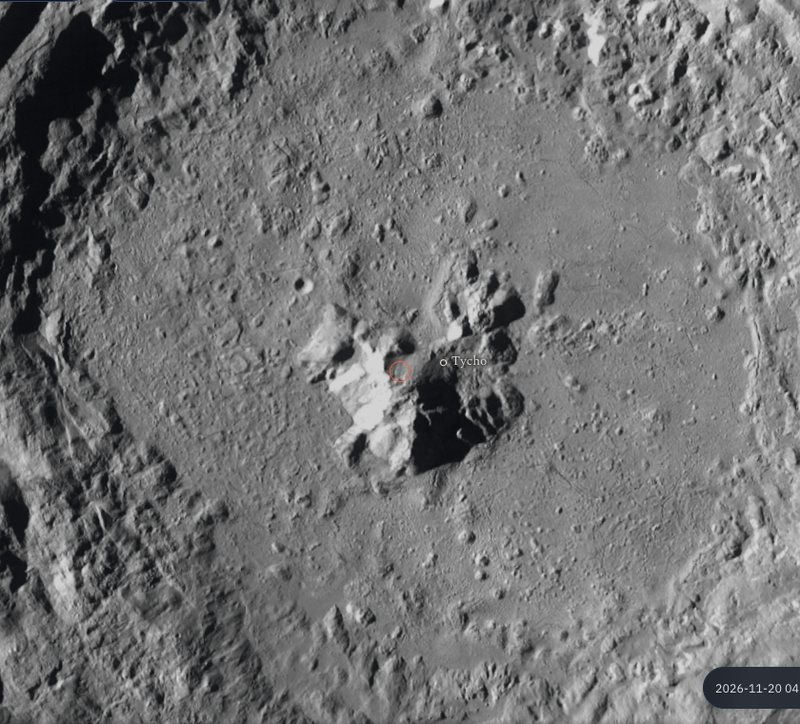
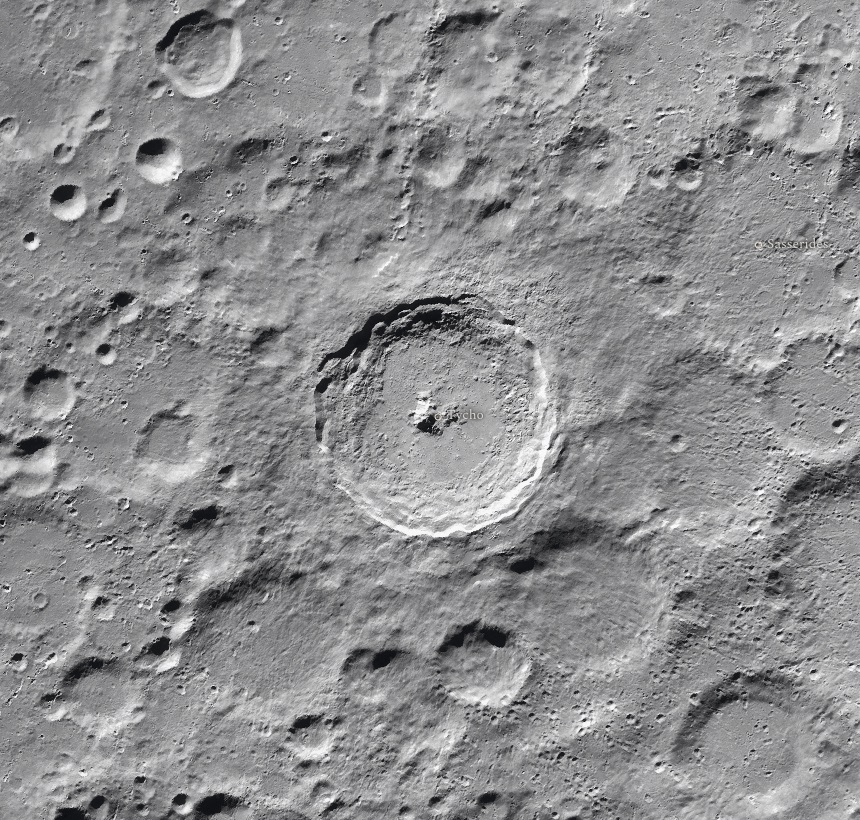
README: add the Solar System, surface, cluster, dust and multi-messenger layers with new screenshots; reproducible shot script; tile set DOI

diff --git a/README.md b/README.md
@@ -22,7 +22,12 @@ number on screen comes with the catalogue it came from.
   SIMBAD, Gaia and the DESI viewer.
 - **See the uncertainty.** Distances are measurements, and the atlas shows each object's 16–84 %
   range.
-- **Watch the Solar System move** in real time, or run time forward ×10⁴ or ×10⁶.
+- **Watch the Solar System move** in real time, or run time forward ×10⁴ or ×10⁶: 1.58 million
+  asteroids, comets and 16,896 satellites follow their real orbits.
+- **Land on the Moon and Mars.** NASA surface imagery streams in as you descend, with named
+  craters, valleys and 21 landing sites.
+- **Move the stars in time**, up to a million years either way, along their measured Gaia
+  velocities.
 - **Show me**: fly from the cosmic web down to the place where you are. Your location stays in
   the browser and is never sent or stored.
 - **Visit a black hole.** The light around Sgr A*, M87* and Gaia BH3 is ray-traced in general
@@ -35,7 +40,11 @@ number on screen comes with the catalogue it came from.
 | | Objects | Source |
 |---|---|---|
 | Solar System | Sun, 8 planets, Pluto, the Moon, major moons, 5 interstellar probes | astronomy-engine (VSOP87, checked against JPL Horizons), JPL Horizons |
-| Stars | Gaia DR3 within 1 kpc *(being added)*, 653 named stars | ESA Gaia, Bailer-Jones et al. 2021, IAU |
+| Asteroids and comets | 1,580,450 asteroids and 4,666 comets on their orbits | IAU Minor Planet Center |
+| Earth satellites | 16,896, plus JWST | CelesTrak (SGP4), JPL Horizons |
+| Moon and Mars surfaces | 861 named features, 21 landing sites, streamed surface imagery | NASA Moon/Mars Trek (LRO, Viking, MRO CTX), IAU Gazetteer |
+| Stars | Gaia DR3 within 100 pc now, within 1 kpc *(being added)*; 653 named stars | ESA Gaia, Bailer-Jones et al. 2021, IAU |
+| Star clusters | 7,181 star clusters | Hunt & Reffert 2023/24, Baumgardt |
 | Exoplanets | 6,442 planets in 4,834 systems | NASA Exoplanet Archive |
 | Pulsars | 4,429 | ATNF Pulsar Catalogue |
 | Black holes | 40, from Sgr A* and M87* to Gaia BH3 | GRAVITY, EHT, Gaia, BlackCAT |
@@ -45,6 +54,11 @@ number on screen comes with the catalogue it came from.
 | All-sky galaxies | 43,463 + 55,877 | 2MRS, Cosmicflows-4 |
 | Messages to the stars | Arecibo 1974 and 30 more, plus the Wow! signal | cited per entry |
 | Interstellar dust | 3D dust clouds within 1.25 kpc (6 pc grid), dark in front of the stars, a glow from outside | Edenhofer et al. 2024 |
+| Gravitational waves | 282 merger events with their 90 % localisation volumes | LIGO/Virgo/KAGRA GWTC via GWOSC |
+| Fast radio bursts | 3,661 bursts on the sky, 101 with a host galaxy | CHIME/FRB Catalog 2, FRB host repository |
+| Neutrinos | 349 IceCube alerts with error regions, 2 identified sources, KM3-230213A | IceCat-1, KM3NeT |
+| Sky backgrounds | Gaia (visible), eROSITA (X-ray), Planck 857 GHz (dust) | ESA, MPE, Planck |
+| Cosmic microwave background | The Planck map as the edge of the observable universe, 13.8 billion years old light | Planck PR3 |
 
 ## Screenshots
 
@@ -56,6 +70,12 @@ number on screen comes with the catalogue it came from.
 | **M81**, with size and tilt from HyperLEDA | **The cosmic web**: DESI galaxies in a 50 Mpc slice |
 | ![Sgr A* with its accretion disk bent over and under the shadow](docs/images/blackhole-sgra.jpg) | ![Gaia BH3 bending the real Gaia sky into an Einstein ring](docs/images/blackhole-gaia-bh3.jpg) |
 | **Sgr A\***: the far side of the disk is bent over the shadow | **Gaia BH3** bends the real Milky Way around it |
+| ![Tycho crater on the Moon with its central peak](docs/images/moon-tycho.jpg) | ![Gale crater on Mars with the Curiosity landing site](docs/images/mars-gale.jpg) |
+| **Tycho** on the Moon, NASA LRO imagery | **Gale crater** on Mars, where Curiosity landed |
+| ![The asteroid belt and the two Jupiter Trojan swarms around the Sun](docs/images/asteroids.jpg) | ![Earth inside a shell of 16,896 satellites](docs/images/satellites.jpg) |
+| **The asteroid belt** and Jupiter's two Trojan swarms | **Earth** inside its shell of satellites |
+| ![Interstellar dust within 1.25 kpc seen from outside](docs/images/dust.jpg) | ![Star clusters along the Milky Way](docs/images/star-clusters.jpg) |
+| **3D dust** around the Sun, seen from 2.6 kpc | **Star clusters** in the Milky Way's disk |
 
 ![Left: Andromeda in the atlas, seen from the Sun. Right: an independent reprojection of the DSS image](docs/images/m31-vs-dss.jpg)
 *Accuracy check: Andromeda in the atlas (left) next to an independent reprojection of the
@@ -64,6 +84,10 @@ Digitized Sky Survey image (right). Size, angle and satellite galaxies match.*
 ![DESI DR1 galaxies in a 150 Mpc thick slice, out to 1 Gpc](docs/images/cosmic-web-1gpc.jpg)
 *DESI DR1 out to a billion parsecs. The dark wedges are parts of the sky the survey has not
 observed.*
+
+![The Planck CMB as a sphere around all galaxy surveys](docs/images/cmb.jpg)
+*The edge of the map: the Planck cosmic microwave background, drawn as a shell around every galaxy
+survey.*
 
 ## Run it locally
 
@@ -75,7 +99,8 @@ npm run dev        # http://localhost:5173
 
 The repository holds the code and the small catalogues. The large point layers (Gaia, DESI) are
 built from the original archives with the scripts in `scripts/` and `pipeline/`; see
-[docs/data-contract.md](docs/data-contract.md). To publish your own copy, see
+[docs/data-contract.md](docs/data-contract.md). The web tile set is archived on Zenodo:
+[10.5281/zenodo.24226088](https://doi.org/10.5281/zenodo.24226088). To publish your own copy, see
 [docs/deploy.md](docs/deploy.md).
 
 ## How it works
@@ -96,7 +121,8 @@ More detail: [web/README.md](web/README.md) (the viewer), [docs/prior-work.md](d
 ## Credits
 
 - **Data:** ESA/Gaia/DPAC, the DESI Collaboration, NASA Exoplanet Archive, ATNF, JPL, 2MRS,
-  Cosmicflows-4, HyperLEDA, CDS (SIMBAD, VizieR, HiPS), OpenNGC (CC BY-SA 4.0; our derived NGC
+  Cosmicflows-4, HyperLEDA, the IAU Minor Planet Center, CelesTrak, NASA Trek, LIGO/Virgo/KAGRA,
+  CHIME/FRB, IceCube, KM3NeT, eROSITA-DE, Planck, CDS (SIMBAD, VizieR, HiPS), OpenNGC (CC BY-SA 4.0; our derived NGC
   catalogues carry the same licence), and every paper cited in the
   catalogues.
 - **Images:** NASA Blue Marble and Black Marble 2016 night lights (public domain), Solar System
